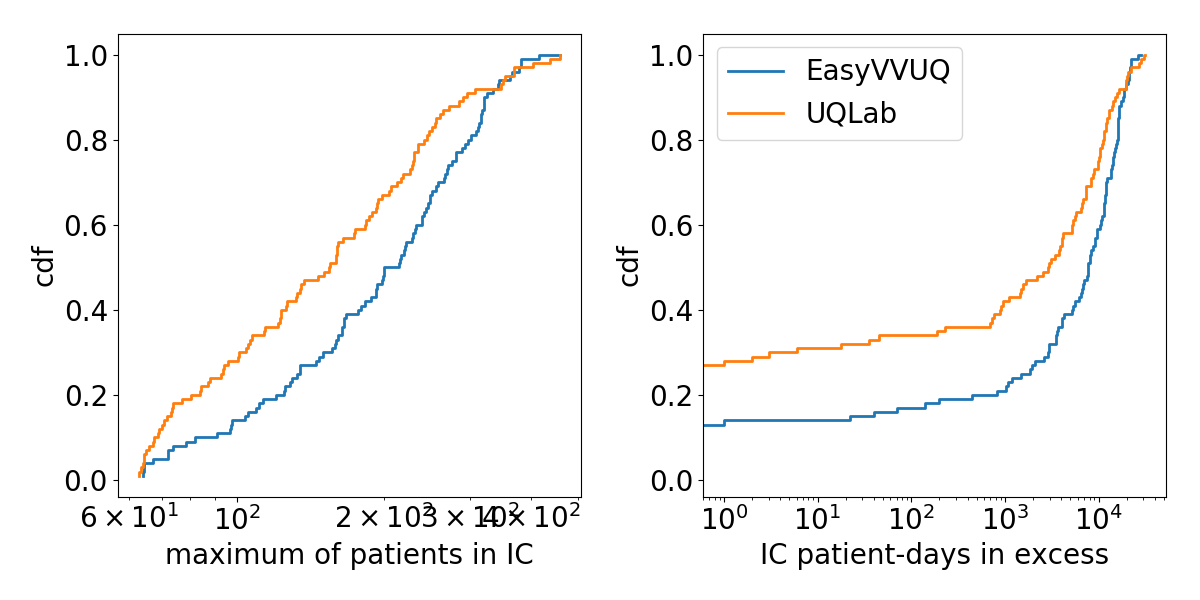
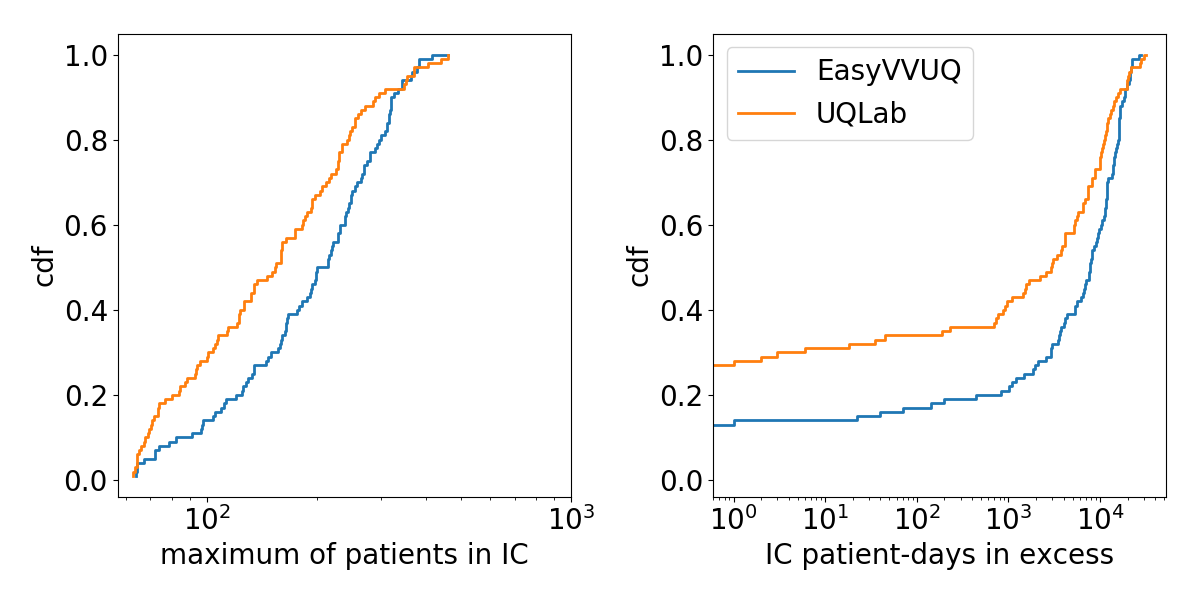
manually set xticks

diff --git a/EasyVVUQ/compare_cdf.py b/EasyVVUQ/compare_cdf.py
@@ -65,8 +65,9 @@ IC_ex_max_UQLab_CT.sort()
 f_CT = plt.figure('cdfs_CT',figsize=[12,6])
 ax_p = f_CT.add_subplot(121, xlabel='maximum of patients in IC', ylabel='cdf')
 ax_p.step(IC_prev_avg_max_CT,p,lw=2,color='tab:blue')
-ax_p.step(IC_prev_avg_max_UQLab_CT,p,lw=2,color='tab:orange') 
+ax_p.step(IC_prev_avg_max_UQLab_CT,p,lw=2,color='tab:orange')
 ax_p.set_xscale('log')
+ax_p.set_xticks([1e2, 1e3])
 
 ax_e = f_CT.add_subplot(122, xlabel='IC patient-days in excess', ylabel='cdf')
 ax_e.step(IC_ex_max_CT,p,lw=2,color='tab:blue',label='EasyVVUQ')
@@ -114,16 +115,17 @@ IC_prev_avg_max_UQLab_FC.sort()
 IC_ex_max_UQLab_FC.sort()
 
 f_FC = plt.figure('cdfs_FC',figsize=[12,6])
-ax_1 = f_FC.add_subplot(121, xlabel='maximum of patients in IC', ylabel='cdf')
-ax_1.step(IC_prev_avg_max_FC,p,lw=2,color='tab:blue')
-ax_1.step(IC_prev_avg_max_UQLab_FC,p,lw=2,color='tab:orange') 
-ax_1.set_xscale('log')
+ax_p = f_FC.add_subplot(121, xlabel='maximum of patients in IC', ylabel='cdf')
+ax_p.step(IC_prev_avg_max_FC,p,lw=2,color='tab:blue')
+ax_p.step(IC_prev_avg_max_UQLab_FC,p,lw=2,color='tab:orange') 
+ax_p.set_xscale('log')
+ax_p.set_xticks([1e2, 1e3])
 
-ax_2 = f_FC.add_subplot(122, xlabel='IC patient-days in excess', ylabel='cdf')
-ax_2.step(IC_ex_max_FC,p,lw=2,color='tab:blue',label='EasyVVUQ')
-ax_2.step(IC_ex_max_UQLab_FC,p,lw=2,color='tab:orange',label='UQLab')
-ax_2.set_xscale('log')
-ax_2.legend(loc='best')
+ax_e = f_FC.add_subplot(122, xlabel='IC patient-days in excess', ylabel='cdf')
+ax_e.step(IC_ex_max_FC,p,lw=2,color='tab:blue',label='EasyVVUQ')
+ax_e.step(IC_ex_max_UQLab_FC,p,lw=2,color='tab:orange',label='UQLab')
+ax_e.set_xscale('log')
+ax_e.legend(loc='best')
 
 plt.tight_layout()
 f_FC.savefig('figures/cdf_FC_MC100_comparison.png')
